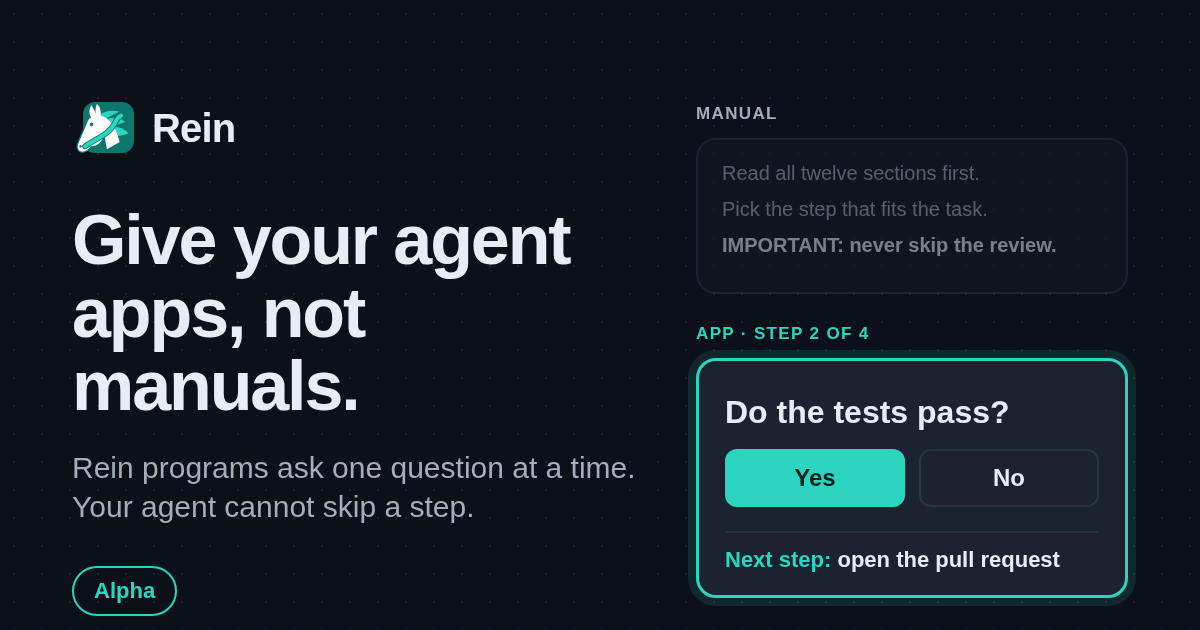
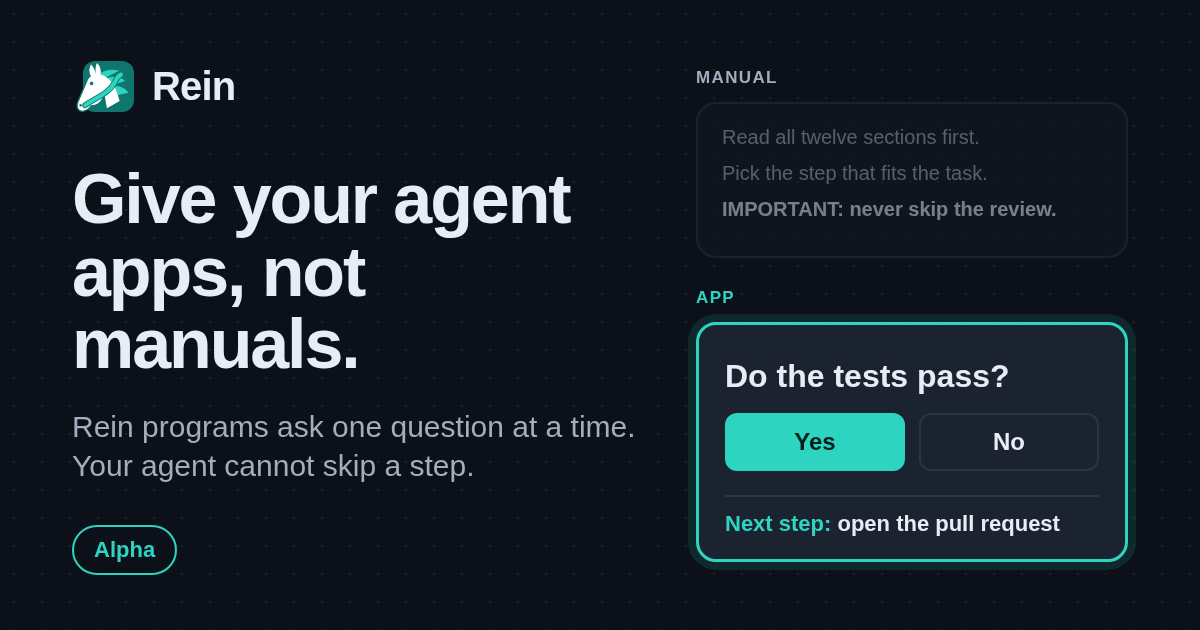
Fix OG card label, margins and stale source
Drop the step count from the app label. Center the left and right
columns so the Alpha pill has even space below it. Point the README
at scripts/og/og.html and remove the unused design/og-card.html.

diff --git a/scripts/og/og.html b/scripts/og/og.html
@@ -17,7 +17,7 @@
         background-image: radial-gradient(#1c2330 1.2px, transparent 1.2px);
         background-size: 28px 28px;
       }
-      .copy { position: absolute; left: 72px; top: 96px; width: 580px; }
+      .copy { position: absolute; left: 72px; top: 0; bottom: 0; width: 580px; display: flex; flex-direction: column; justify-content: center; }
       .brand { display: flex; align-items: center; gap: 16px; }
       .brand img { width: 64px; height: 64px; }
       .brand span { font-size: 40px; font-weight: 800; letter-spacing: -0.02em; }
@@ -27,12 +27,12 @@
       }
       .sub { margin: 26px 0 0; font-size: 30px; line-height: 1.3; color: #a3adbd; font-weight: 500; }
       .pill {
-        display: inline-block; margin-top: 40px; padding: 10px 20px;
+        display: inline-block; align-self: flex-start; margin-top: 40px; padding: 10px 20px;
         border: 2px solid #2dd4bf; border-radius: 999px;
         color: #2dd4bf; font-size: 22px; font-weight: 700;
       }
 
-      .side { position: absolute; left: 696px; top: 104px; width: 432px; }
+      .side { position: absolute; left: 696px; top: 0; bottom: 0; width: 432px; display: flex; flex-direction: column; justify-content: center; }
       .card-head {
         font-size: 17px; font-weight: 700; letter-spacing: 0.08em;
         text-transform: uppercase; color: #a3adbd; margin: 0 0 14px;
@@ -88,7 +88,7 @@
         <p class="shout">IMPORTANT: never skip the review.</p>
       </div>
 
-      <p class="card-head accent">App &middot; Step 2 of 4</p>
+      <p class="card-head accent">App</p>
       <div class="app-card">
         <div class="question">Do the tests pass?</div>
         <div class="answers">

diff --git a/landing/README.md b/landing/README.md
@@ -39,5 +39,5 @@ The site shows no code, syntax, keywords as code, file contents or CLI output. E
 
 - `public/brand/*`, `public/favicon.*` and `public/apple-touch-icon.png`: symlinks into the `assets/` submodule. [rein-lang/assets](https://github.com/rein-lang/assets) is the source; run `git submodule update --init` after clone. CI fails if one is a copy.
 - `public/images/concept-*.webp`: stills from `concept/out/stills` in [rein-lang/videos](https://github.com/rein-lang/videos), resized to 1280 px wide. Beat 5 is not used because its labels are keywords.
-- `public/og.png`: 1200x630 Open Graph card. Source is `design/og-card.html`. Re-render it with a 1200x630 screenshot if the copy changes.
+- `public/og.png`: 1200x630 Open Graph card. Source is `scripts/og/og.html`, rendered by `scripts/og/render.mjs` (writes `landing/public/og.png`). Run `node scripts/og/render.mjs` after the copy changes.
 - The concept video is not hosted yet. The home page has a `<video>` slot with the beat-9 still as its poster. A TODO comment in `src/pages/index.astro` names what to do when the mp4 has a host. Do not commit the mp4.
